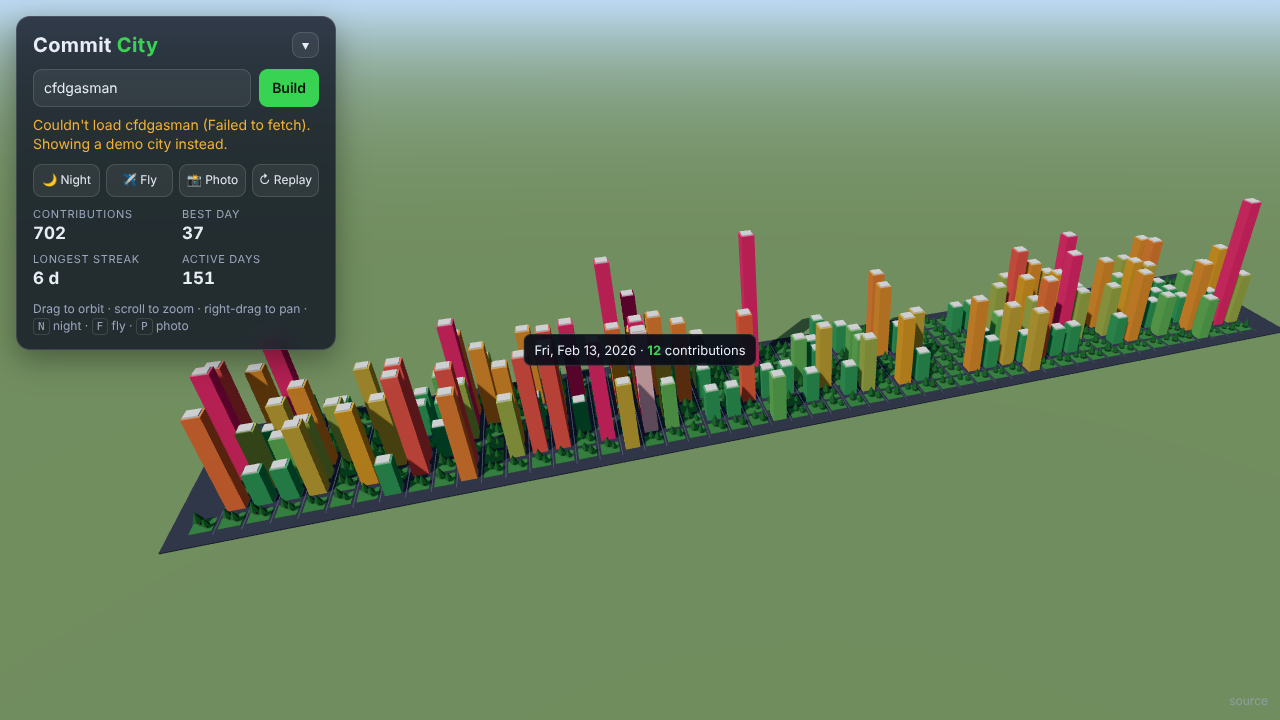
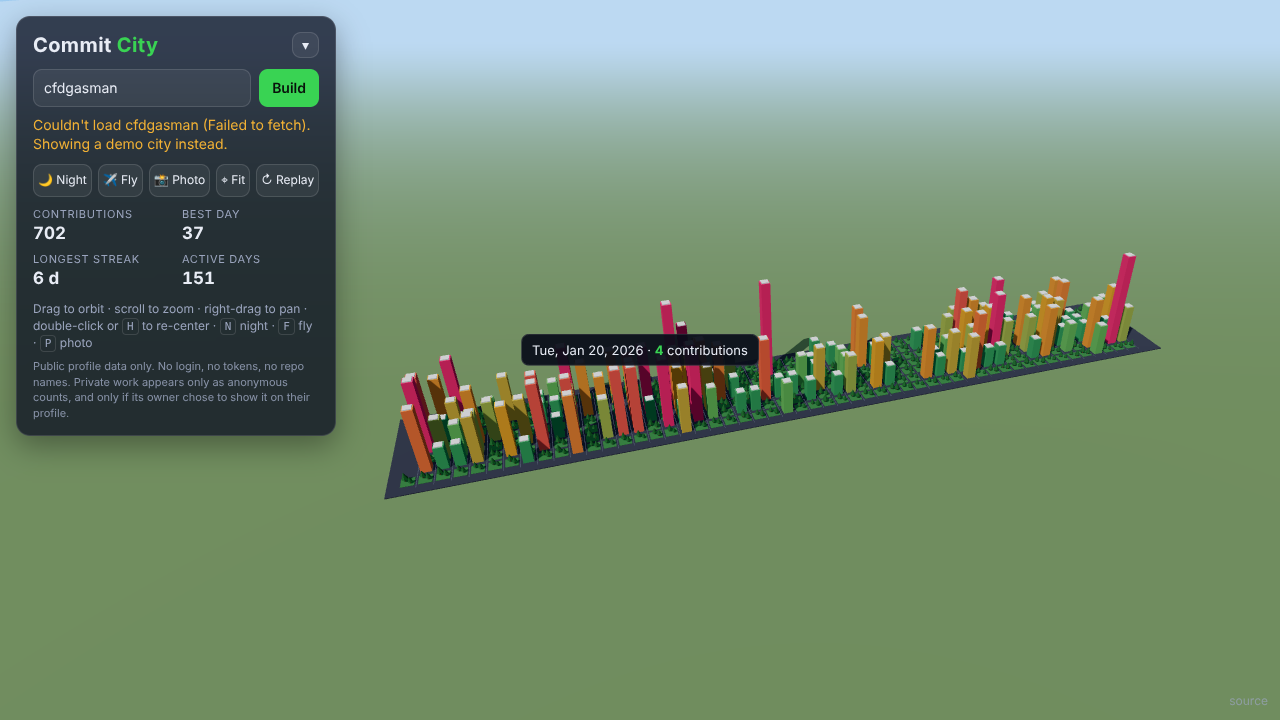
README: document fit controls and public-only data; refresh screenshots
Claude-Session: https://claude.ai/code/session_015Awep2r6m3hyRbgzhH9oi3

diff --git a/README.md b/README.md
@@ -15,6 +15,7 @@ Every day you coded becomes a building. Busier days make taller, brighter towers
 - **Any user:** type a GitHub username, or share a link like [`?user=torvalds`](https://cfdgasman.github.io/commit-city/?user=torvalds)
 - **One building per day:** a 53 × 7 grid, like the contribution graph. Height uses a log scale and color runs from teal to hot pink
 - **Orbit camera:** drag to orbit, scroll or pinch to zoom, right-drag or two fingers to pan
+- **Always fits:** the whole city is framed for any screen size, and it re-fits when you resize or rotate your phone. Lost? Press <kbd>H</kbd>, the **⌖ Fit** button, or double-click/double-tap to glide back
 - **Fly camera:** press <kbd>F</kbd>, drag to look, <kbd>W</kbd><kbd>A</kbd><kbd>S</kbd><kbd>D</kbd> to move, <kbd>Q</kbd>/<kbd>E</kbd> down/up, <kbd>Shift</kbd> to boost
 - **Hover or tap** a building to see its date and count
 - **Day/night toggle** (<kbd>N</kbd>): the sun sets, the stars come out and the windows light up. Add `&night=1` to a link to start at night
@@ -23,6 +24,12 @@ Every day you coded becomes a building. Busier days make taller, brighter towers
 - **Mobile friendly:** touch orbit and pinch zoom, plus an on-screen flight pad in fly mode
 
 <img src="docs/mobile.png" alt="Fly mode on a phone, with the on-screen flight pad" width="260">
+
+## Privacy: public data only
+
+Commit City only reads the **public** contribution calendar that anyone can see on a GitHub profile. There's no login and no token, and it never sees repository names, code or commit messages. It only gets a count per day.
+
+GitHub lets each person choose whether their profile graph includes private contributions (as anonymous counts). To make your city show **only public work**, turn that off. On GitHub, open your profile, click **Contribution settings** above the contribution graph, and untick **Private contributions**. Your city will then match your public activity.
 
 ## How it works
 
